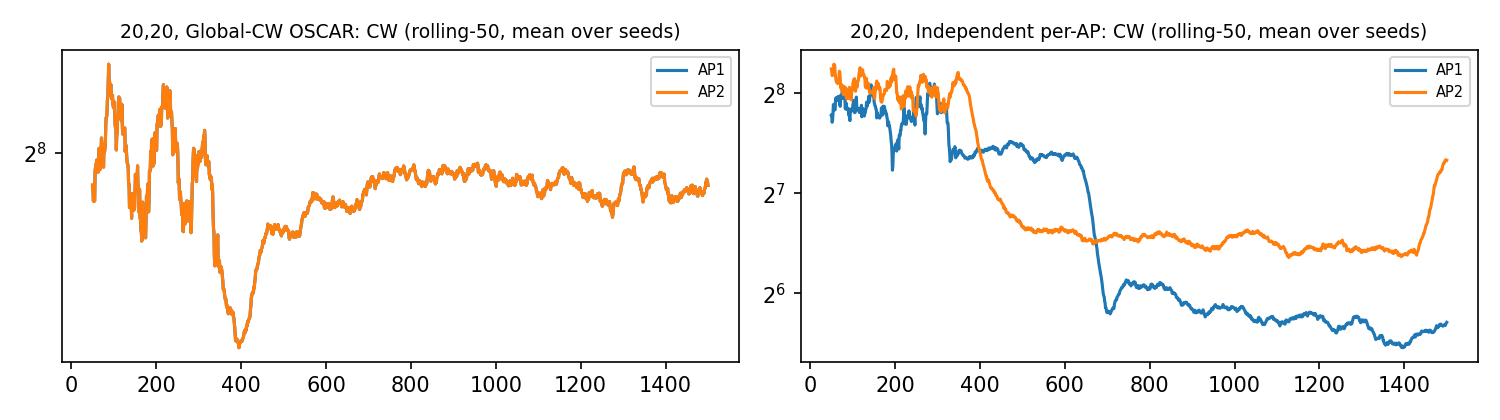
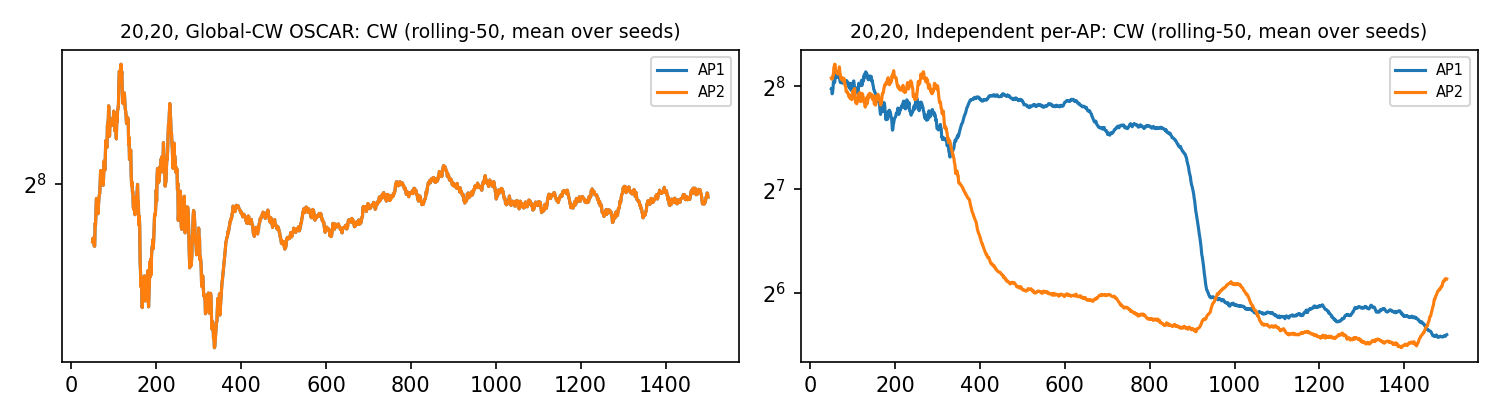
docs(bench): v1.1.0 batch 2 complete 20,20 results
20,20 9/9 PASS: global +26% vs BEB, independent ~0 with huge
seed spread. Figures inspected; batch 3 (20,40) pending.

diff --git a/docs/benchmark-v1.1.0.md b/docs/benchmark-v1.1.0.md
@@ -1,6 +1,6 @@
 # v1.1.0 — Baseline benchmarking (IN PROGRESS, 2026-10-09)
 
-Status: tooling done; batch 1 (2,3 and 5,15) done; batch 2 (20,20) PARTIAL (seed 0 complete, seed 1 BEB done; seed 1 global/independent and seed 2 not complete); batch 3 (20,40) NOT run. v1.1.0 is not closed and not tagged.
+Status: tooling done; batch 1 (2,3 and 5,15) done; batch 2 (20,20) DONE (3 modes x 3 seeds, 9/9 PASS); batch 3 (20,40) NOT run. v1.1.0 is not closed and not tagged.
 
 ## 1. Method
 Three systems on the same topology, traffic, PHY, duration (15 s, step 0.01 s) and seeds (python seed 0,1,2 -> ns-3 seed 1,2,3):
@@ -30,25 +30,30 @@ Paired difference vs BEB: 2,3 global -0.1 ± 1.6 %, independent -1.2 ± 2.1 %; 5
 - Inference (untested): CW tuning helps more under uneven load; the 5,15 evidence is too weak to claim it.
 
 ## 4. Caveats
-- n=3 gives wide CIs. Figures were generated but not yet inspected by eye.
+- n=3 gives wide CIs. Batch 1 and batch 2 figures were inspected; batch 3 pending.
 - Convergence step = first step after which rolling-100 aggregate throughput stays within ±5 % of the last-300 mean; for independent runs the CI is larger than the mean (unstable).
 - Run times were erratic on WSL (3-26 min per job, high sys time); one smoke job took 24 min with no cause found.
 - Smoke-test runs used the pre-fix binary and were discarded.
 
-## 4b. Batch 2 (20,20) partial results (2026-10-12, second laptop)
-Batch 1 raw traces (`results/bench-v1.1.0/` from the first laptop) are gitignored and were NOT available here (decision: skip them). Batch 2 was run into a fresh `results/bench-v1.1.0/` on the second laptop (2 cores, 5 GB RAM) with the rebuilt binary (regressions: `--nWifi=5` dry seed 1 -> 10533, `5,15` dry seed 1 -> 9000, seed 2 -> 9023). Outputs are kept separate from batch 1: `docs/figures/v1.1.0-b2/` (manifest, tables, 4 figures; figures not yet inspected by eye).
-Completed PASS runs (manifest): seed 0 beb/global/independent (1176/1158/1130 s) and seed 1 beb (1133 s). Seed 1 global was in flight when this was written; seed 1 independent and all of seed 2 were not run.
+## 4b. Batch 2 (20,20) results (2026-10-13, second laptop; n = 3 seeds)
+Batch 1 raw traces (`results/bench-v1.1.0/` from the first laptop) are gitignored and were NOT available here (decision: skip). Batch 2 was run into a fresh `results/bench-v1.1.0/` on the second laptop (2 cores, 5 GB RAM) with the rebuilt binary (regressions re-verified 2026-10-13: `--nWifi=5` dry seed 1 -> 10533; `5,15` dry seed 1 -> 9000 = 2520 + 6480; per-AP stats/CW/association checks PASS). Outputs are kept separate from batch 1: `docs/figures/v1.1.0-b2/` (manifest, tables, 4 figures, all inspected). Runs took 16-20 min each.
 
-| Mode (policy window, Mbps) | n | Aggregate | AP1 | AP2 |
-|---|---|---|---|---|
-| BEB | 2 | 30.06 ± 0.36 | 14.63 | 15.43 |
-| Global-CW | 1 | 38.20 | 17.91 | 20.29 |
-| Independent | 1 | 30.41 | 16.18 | 14.23 |
+| Mode (policy window, Mbps) | n | Aggregate | AP1 | AP2 | Jain | Δ vs BEB (paired) |
+|---|---|---|---|---|---|---|
+| BEB | 3 | 30.10 ± 0.20 | 14.87 ± 1.07 | 15.23 ± 0.92 | 0.999 ± 0.001 | n/a |
+| Global-CW | 3 | 37.93 ± 4.17 | 23.11 ± 24.57 | 14.82 ± 21.29 | 0.877 ± 0.510 | +26.0 ± 13.1 % |
+| Independent | 3 | 30.19 ± 21.60 | 16.68 ± 28.88 | 13.51 ± 7.44 | 0.870 ± 0.271 | +0.2 ± 71.1 % |
 
-- Fact: on seed 0, global-CW is +27.0 % over BEB (8.11 Mbps); independent is +1.1 %. n=1 per trained mode, so no CI and no claim.
+Per-seed aggregate (policy window, Mbps), seeds 0/1/2: BEB 30.08/30.03/30.18; global 38.20/36.13/39.45 (seed 2 Jain 0.64); independent 30.41/21.38/38.77.
+
+- Fact: global-CW beats BEB on all three seeds (+6.1 to +9.3 Mbps); the paired CI excludes zero (n=3). This is the first topology where a trained system is distinguishable from BEB.
+- Fact: independent per-AP is not distinguishable from BEB; its seed-to-seed spread is huge (21.4 to 38.8 Mbps). Seed 1 ends well below BEB, seed 2 well above.
+- Fact (figures): global CW rises past the step-300 warm-up marker and holds ~38 Mbps from step ~500 with CW ~2^8 on both APs (one shared value). Independent starts ~35 Mbps, then the 3-seed mean decays to ~27.5 Mbps by step ~1100 while both CWs drift from ~2^8 down to ~2^6 (AP1 drops last, ~step 900).
+- Fact: global-CW fairness is uneven on some seeds (seed 2 Jain 0.64: one AP is starved while the aggregate is highest); the large per-AP CIs reflect this.
+- Inference (untested): the independent agents fail to coordinate (each lowers its own CW, raising contention); n=3 cannot confirm this.
 - Note: 20,20 BEB here (30.1 Mbps, policy window) is not comparable to the v1.0.0 whole-run 32.2 Mbps (window mismatch, see §3 of core-v1.0.0).
-- Run times ~19 min each on this laptop (batch 1 laptop: 8-32 min at 2 APs).
+- Trainer self-check bug (fixed, not a simulation bug): seed 2 global first FAILED `--check` because `cw.cc` computes `pow(2, 4 + a)` with a float `a` (4 + a is rounded to float32 before `pow`), giving CW 139 where the Python check (double) expected 140, in 2 of 3000 rows (both APs equal; readback == set value). Offline replay of all 6 trained 20,20 traces: float32 arithmetic explains exactly those 2 rows, 0 mismatches elsewhere. Only the check was changed (`OSCAR_multi_ap_train.py`); `cw.cc` and the binary are unchanged, and the re-run PASSED. The FAIL row stays in the manifest.
 
 ## 5. Remaining for v1.1.0
-Finish batch 2 (20,20: seed 1 global + independent, seed 2 x3 = 5 runs) and batch 3 (20,40: 9 runs) (ask before each); aggregate all four topologies; look at figures; finish this doc; check the 20,40 BEB logs for the deassociation (cause still unproven); then close and tag only with user approval.
-Command: `../../venv/bin/python benchmark_v1_1_0.py --topos 20,20 --seeds 0 1 2 --benchDir results/bench-v1.1.0` (same bench dir: resumes). Then `aggregate_bench.py results/bench-v1.1.0 --out ../../../docs/figures/v1.1.0`.
+Batch 3 (20,40; 9 runs, seeds 0 1 2; ask before starting; ~19 min each here) from `ns-3.29/scratch/linear-mesh`:
+`../../venv/bin/python benchmark_v1_1_0.py --topos 20,40 --seeds 0 1 2 --benchDir results/bench-v1.1.0` (same bench dir: resumes PASS rows). Then aggregate with `aggregate_bench.py results/bench-v1.1.0 --out ../../../docs/figures/v1.1.0-b3` (new dir; never overwrite `v1.1.0` or `v1.1.0-b2`), look at the figures, check the 20,40 BEB logs for the t=1.144 s STA deassociation (cause unproven; BEB not yet checked), add a §4c, and write a conclusion. Close and tag only with user approval.

diff --git a/docs/figures/v1.1.0-b2/tables.md b/docs/figures/v1.1.0-b2/tables.md
@@ -6,14 +6,14 @@ Policy window = steps >= 300 (3.00 s of stepping); mean ± 95% CI (Student t) ov
 
 | Mode | n | Aggregate | AP1 | AP2 | Phy loss | Jain | CW AP1 last-100 | CW AP2 last-100 | Convergence step |
 |---|---|---|---|---|---|---|---|---|---|
-| BEB (802.11) | 2 | 30.06 ± 0.36 | 14.63 ± 1.53 | 15.43 ± 1.89 | 0.713 ± 0.007 | 0.999 ± 0.006 | 16 ± 0 | 16 ± 0 | 0 ± 0 |
-| Global-CW OSCAR | 1 | 38.20 (n=1) | 17.91 (n=1) | 20.29 (n=1) | 0.591 (n=1) | 0.996 (n=1) | 234 (n=1) | 234 (n=1) | 358 (n=1) |
-| Independent per-AP | 1 | 30.41 (n=1) | 16.18 (n=1) | 14.23 (n=1) | 0.708 (n=1) | 0.996 (n=1) | 51 (n=1) | 131 (n=1) | 1500 (n=1) |
+| BEB (802.11) | 3 | 30.10 ± 0.20 | 14.87 ± 1.07 | 15.23 ± 0.92 | 0.712 ± 0.003 | 0.999 ± 0.001 | 16 ± 0 | 16 ± 0 | 0 ± 0 |
+| Global-CW OSCAR | 3 | 37.93 ± 4.17 | 23.11 ± 24.57 | 14.82 ± 21.29 | 0.572 ± 0.050 | 0.877 ± 0.510 | 250 ± 251 | 250 ± 251 | 351 ± 15 |
+| Independent per-AP | 3 | 30.19 ± 21.60 | 16.68 ± 28.88 | 13.51 ± 7.44 | 0.705 ± 0.282 | 0.870 ± 0.271 | 50 ± 59 | 60 ± 153 | 1273 ± 977 |
 
 Paired difference vs BEB (same ns-3 seed), aggregate throughput:
 
 | Mode | n pairs | Δ Mbps | Δ % |
 |---|---|---|---|
-| Global-CW OSCAR | 1 | 8.11 (n=1) | 27.0 (n=1) |
-| Independent per-AP | 1 | 0.33 (n=1) | 1.1 (n=1) |
+| Global-CW OSCAR | 3 | 7.83 ± 3.99 | 26.0 ± 13.1 |
+| Independent per-AP | 3 | 0.09 ± 21.41 | 0.2 ± 71.1 |
 

diff --git a/ROADMAP.md b/ROADMAP.md
@@ -56,7 +56,7 @@
 
 ### v1.1.0
 - Benchmark against relevant baseline configurations.
-- Status: 🔄 IN PROGRESS 2026-10-09. Tooling + seed fix done; 2,3 and 5,15 benchmarked (3 modes x 3 seeds); 20,20 and 20,40 pending. See `docs/benchmark-v1.1.0.md`.
+- Status: 🔄 IN PROGRESS 2026-10-09. Tooling + seed fix done; 2,3, 5,15 and 20,20 benchmarked (3 modes x 3 seeds; 20,20 global +26 % vs BEB, independent ~0); 20,40 pending (2026-10-13). See `docs/benchmark-v1.1.0.md`.
 
 ### v1.2.0
 - Scale to 4 APs.
